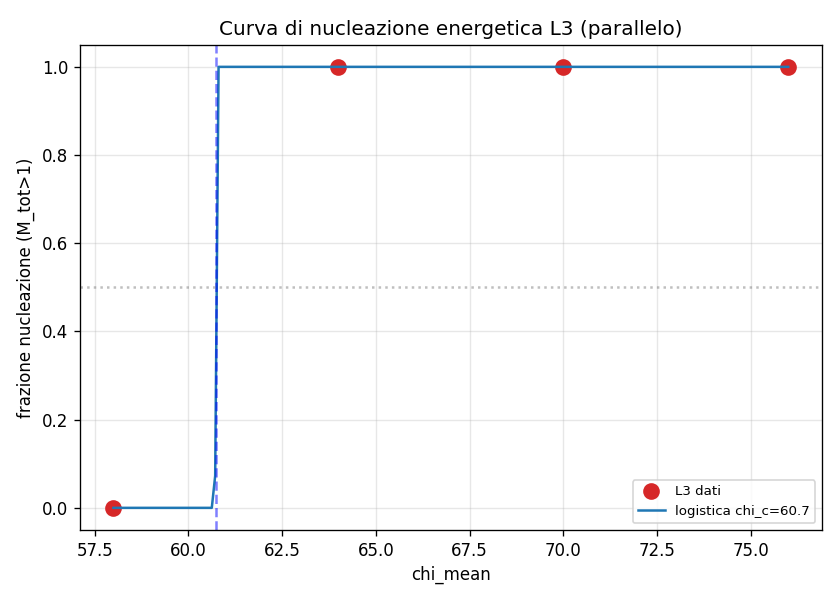
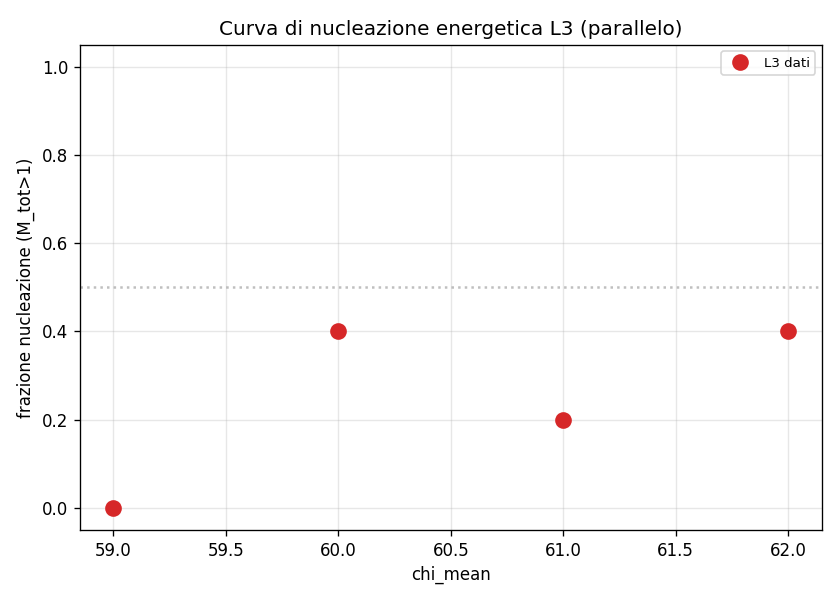
feat(V1/V2): data collapsing L2-L3 - chi_c scala (FSS netto), forma compatibile (CNG)
Curva nucleazione L3 completa (rado+rifinimento, parallelo): fit logistico R2=0.92,
chi_c_L3=61.99+-0.42 (chi_c/chi_stable=1.240), w_L3=1.09+-0.39.

RISULTATO 1 [robusto]: chi_c SCALA con N. L2=1.338 -> L3=1.240 (-7.4%), differenza
~10x le barre. Effetto di scala finita netto: il sistema grande nuclea a soglia piu'
bassa. chi_c NON e' scala-invariante.

RISULTATO 2 [debole, resta CNG]: forma compatibile con universalita'.
w_eps_L2=0.0202+-0.0025 vs w_eps_L3=0.0176+-0.0063, compatibili entro le barre.
MA w_L3 ha incertezza ~36% (zona transizione rumorosa/non-monotona a 5 seed).
Compatibile != certificato: per [OSS] servono ~20 seed zona 60-64.

Aggiunte al checkpoint: distinzione di dominio (conteggi/divisori vs continuo/FSS),
valutazione GPU-M1 (no azione, leva = FastEvolver), prossimi passi.
Pronto per migrazione macOS (git clone + pip install -r requirements.txt).

diff --git a/docs/peano/MIGRAZIONE_CHECKPOINT.md b/docs/peano/MIGRAZIONE_CHECKPOINT.md
@@ -36,29 +36,49 @@ non riproducibili al bit. Coerenti con L3 seedato perche' stesso ensemble.
   [V5] nella ROADMAP va marcato FALSIFICATO (non e' un gap fisico).
   Script: test_soglia_geometrica.py ; figure: soglia_geometrica_L2.png
 
-[V1/V2 PARZIALE 2026-06-04] SWEEP RADO L3 FATTO (parallelo, 6 worker, 98 min).
-  Curva L3 (M_tot>1): cm58=0%, cm64=100%, cm70=100%, cm76=100%.
-  RISULTATO GREZZO: chi_c_L3 in (58,64) -> chi_c/chi_stable in (1.16, 1.28).
-  Confronto: chi_c/chi_stable L2 = 1.338 (ben misurato) vs L3 in (1.16,1.28).
-  => SEGNALE: chi_c SCENDE con la scala (effetto di scala finita). L'intervallo L3
-     e' interamente SOTTO il valore L2, anche all'estremo alto (1.28 < 1.338).
-  CAVEAT: il fit logistico ha dato w=0 +-inf = MAL DETERMINATO (sweep troppo rado,
-     transizione in un solo intervallo 58-64). chi_c_L3 NON e' un numero preciso,
-     solo un intervallo. La larghezza w_L3 (per il test di FORMA) e' ignota.
-  TEMPO REALE MISURATO: ~5 min/quench effettivi (6 worker) = ~29 min seriale/quench L3.
-  Script: test_termodinamica_kink_par.py (parallelo, GATE equivalenza PASS).
-  Figure: termodinamica_par_L3.png
+[V1/V2 FATTO 2026-06-04] CURVA NUCLEAZIONE L3 (rado + rifinimento, parallelo).
+  Curva completa L3 (M_tot>1, 5 seed/punto):
+    cm58=0% cm59=0% cm60=40% cm61=20% cm62=40% cm64=100% cm70=100% cm76=100%
+  Fit logistico aggregato (R2=0.92): chi_c_L3=61.99+-0.42 (chi_c/chi_stable=1.240),
+    w_L3=1.09+-0.39 (w/chi_stable=0.022).
+  Confronto con L2 (Task A): chi_c/chi_stable L2=1.338+-0.004, w_L2/chi_st=0.027.
 
-PROSSIMO PASSO per chiudere V1/V2/V3:
-  RIFINIRE chi_c_L3: sweep fitto tra 58 e 64 (es. 59,60,61,62) per risolvere la
-  transizione e ottenere chi_c_L3 e w_L3 precisi. ~4 punti x 5 seed = ~90 min parallelo.
-    python experiments/exp3/test_termodinamica_kink_par.py --level 3 --seeds 5 \
-      --chi-means 59,60,61,62 --workers 6 --quench-steps 500
-  POI: data collapsing - normalizzare ogni curva su epsilon=(chi-chi_c(L))/chi_c(L)
-    e confrontare la FORMA (w). Se w_L2 ~ w_L3 in unita' di epsilon -> universalita'
-    della forma con soglia scala-dipendente. Se no -> regimi diversi.
-  Promuovere a [OSS] SOLO con dati coerenti su L2 E L3 (regola dei 2 livelli).
-  COSTO L4 (se servisse 3o punto): ~8h/quench, sweep ~27h con 6 worker, RAM ~3GB OK.
+  RISULTATO 1 [ROBUSTO]: chi_c SCALA con N (effetto di scala finita).
+    L2=1.338 -> L3=1.240, scende del 7.4%. Differenza (4.93 in chi) ~10x le barre.
+    chi_c NON e' scala-invariante: il sistema piu' grande nuclea a soglia piu' bassa.
+
+  RISULTATO 2 [DEBOLE, resta CNG]: FORMA compatibile con universalita'.
+    w in unita' di epsilon=(chi-chi_c)/chi_c: w_eps_L2=0.0202+-0.0025,
+    w_eps_L3=0.0176+-0.0063. |diff|=0.0026 < errore combinato 0.0068 -> COMPATIBILI.
+    MA: w_L3 ha incertezza ~36% (zona transizione 60-62 RUMOROSA e non-monotona a
+    5 seed: 40%,20%,40% = rumore binomiale). "Compatibile" != "certificato".
+    Per certificare V1/V2 a [OSS]: ~20 seed nella zona 60-64 (run piu' lungo).
+
+  TEMPO: ~5 min/quench effettivi (6 worker). Rifinimento (zona critica) ~93 min/20q
+    (piu' lento del rado: i quench attorno a chi_c nucleano kink che non convergono
+    entro 500 step -> vanno al cap).
+  Script: test_termodinamica_kink_par.py + analyze_termodinamica.py --level 3
+  Figure: termodinamica_aggregata_L3.png, termodinamica_par_L3.png
+
+DISTINZIONE DI DOMINIO (fissata 2026-06-04, NON mescolare):
+  - DOMINIO DISCRETO (conteggi): la "legge dei divisori di 24" ha senso SOLO su
+    grandezze contabili (n_eff_block = larghezza difetto in blocchi). [V4, CNG]
+  - DOMINIO CONTINUO (ampiezze/energie): M_tot (energia, ~unita' arbitrarie,
+    estensivo ~N) e chi_c (ampiezza di campo). Cercare "multipli di 24" qui e'
+    numerologia, non fisica. chi_c che scala = FSS standard, niente di mistico.
+
+VALUTAZIONE GPU/M1 (fatta 2026-06-04, no azione): la GPU dell'M1 aiuterebbe SOLO
+  a L4+ e SOLO con rewrite tensoriale (PyTorch MPS / MLX) + GATE precisione
+  (float32 su sistema caotico = rischio divergenza). A L2/L3 non conviene (array
+  troppo piccoli, overhead > guadagno). Leva prioritaria = FastEvolver (CPU, ~6x,
+  gia' verificato su L2), NON la GPU. M1 Air fanless: throttla sui run lunghi.
+
+PROSSIMI PASSI POSSIBILI (decidere alla ripresa):
+  (a) Certificare V1/V2: ~20 seed zona 60-64 a L3 (run lungo) per w_L3 preciso.
+  (b) L4 come terzo punto FSS: ~8h/quench, sweep ~27h con 6 worker (solo se serve
+      la legge chi_c(L) funzionale; per il segnale "scala" bastano L2+L3 gia' fatti).
+  (c) V4 quantizzazione larghezza: osservare kink w=2,4 (dominio discreto).
+  (d) FastEvolver nel quench (~6x) per rendere fattibili run lunghi/L4.
 
 ## >>> STATO ATTUALE (riorganizzato 2026-06-01, aggiornato 2026-06-03) <<<
 
